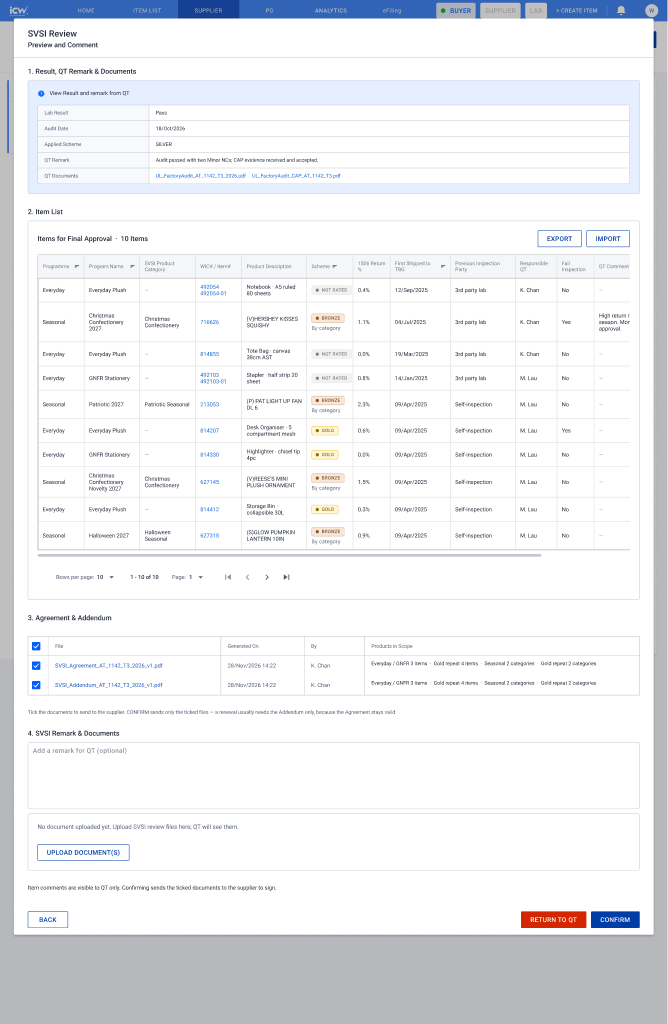
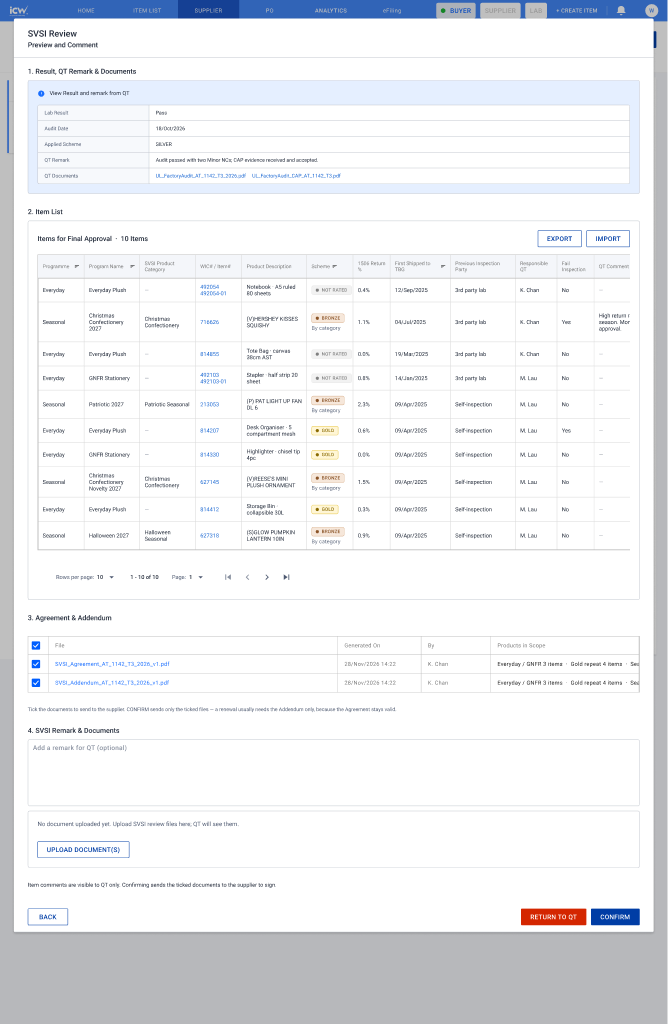
Ethical check gives a grade, not a score
Ethical Score / Score Date become Ethical Grade / Grade Date with four options
(Satisfactory, Needs Improvement, Satisfactory after Critical, Critical); adds
the grade dropdown frame and refreshes the two affected screenshots.

Changed region(s): [[0.0299, 0.7812, 0.9581, 0.9375], [0.0299, 0.625, 0.9281, 0.75], [0.3293, 0.625, 0.3892, 0.6562]]

diff --git a/index.html b/index.html
@@ -537,7 +537,7 @@ footer{margin-top:44px; padding-top:22px; border-top:1px solid var(--line); colo
       <div class="actors"><span class="chip buyer"><span class="dot"></span>QT decides</span><span class="chip team"><span class="dot"></span>Ethical team reviews</span></div>
     </div>
   </div>
-  <p class="intro">The ethical check is now optional. QT can skip it and send straight to the SVSI team; while the SVSI team is reviewing, QT can still <strong>send the task to the ethical team</strong>. If it goes to the ethical team first, they enter the score, score date, remark and documents, reconfirm, and the task moves on to the SVSI team.</p>
+  <p class="intro">The ethical check is now optional. QT can skip it and send straight to the SVSI team; while the SVSI team is reviewing, QT can still <strong>send the task to the ethical team</strong>. If it goes to the ethical team first, they pick the ethical grade (Satisfactory, Needs Improvement, Satisfactory after Critical or Critical), the grade date, remark and documents, reconfirm, and the task moves on to the SVSI team.</p>
   <div class="plays"><span class="pl">Play the prototype</span><a class="play team" href="https://www.figma.com/proto/aJIs39okLTRsQMwk96NWrC/SVSI?page-id=0%3A1&node-id=3028-11319&starting-point-node-id=3028%3A11319&scaling=scale-down-width&content-scaling=fixed" target="_blank" rel="noopener"><span class="tri" aria-hidden="true"></span><span class="pk">Ethical 1</span>Ethical review &amp; upload</a><a class="play buyer" href="https://www.figma.com/proto/aJIs39okLTRsQMwk96NWrC/SVSI?page-id=0%3A1&node-id=4976-22746&starting-point-node-id=4976%3A22746&scaling=scale-down-width&content-scaling=fixed" target="_blank" rel="noopener"><span class="tri" aria-hidden="true"></span><span class="pk">QT 9</span>Sent to SVSI → send to ethical later</a><a class="play team" href="https://www.figma.com/proto/aJIs39okLTRsQMwk96NWrC/SVSI?page-id=0%3A1&node-id=5179-41959&starting-point-node-id=5179%3A41959&scaling=scale-down-width&content-scaling=fixed" target="_blank" rel="noopener"><span class="tri" aria-hidden="true"></span><span class="pk">Ethical 2</span>Returned by SVSI → re-review → confirm</a></div>
   <div class="frames">
     <div class="frame">
@@ -561,7 +561,8 @@ footer{margin-top:44px; padding-top:22px; border-top:1px solid var(--line); colo
     <div class="mh">Ethical team screens</div>
     <ul>
       <li><a href="https://www.figma.com/design/aJIs39okLTRsQMwk96NWrC/SVSI?node-id=3028-11319" target="_blank" rel="noopener"><span class="nm">Ethical review, empty</span><span class="id">3028:11319</span></a></li>
-      <li><a href="https://www.figma.com/design/aJIs39okLTRsQMwk96NWrC/SVSI?node-id=4950-21039" target="_blank" rel="noopener"><span class="nm">Score date picker</span><span class="id">4950:21039</span></a></li>
+      <li><a href="https://www.figma.com/design/aJIs39okLTRsQMwk96NWrC/SVSI?node-id=9445-32448" target="_blank" rel="noopener"><span class="nm">Grade dropdown</span><span class="id">9445:32448</span></a></li>
+      <li><a href="https://www.figma.com/design/aJIs39okLTRsQMwk96NWrC/SVSI?node-id=4950-21039" target="_blank" rel="noopener"><span class="nm">Grade date picker</span><span class="id">4950:21039</span></a></li>
       <li><a href="https://www.figma.com/design/aJIs39okLTRsQMwk96NWrC/SVSI?node-id=2028-8302" target="_blank" rel="noopener"><span class="nm">Ethical review, filled</span><span class="id">2028:8302</span></a></li>
       <li><a href="https://www.figma.com/design/aJIs39okLTRsQMwk96NWrC/SVSI?node-id=3785-22004" target="_blank" rel="noopener"><span class="nm">Reconfirm before submitting</span><span class="id">3785:22004</span></a></li>
     </ul>

diff --git a/src/gen.py b/src/gen.py
@@ -107,11 +107,11 @@ S.append(step('s4','04','QT Review, Documents &amp; Preview',[('buyer','QT')],
  [('Steps and other decisions',[('Review lab result','1405:9212'),('Generate Agreement &amp; Addendum','4990:23021'),('Returned by SVSI, scroll table','5022:33099'),('Wide screen (1920), full table','7361:31251'),('Dev note, item tables scroll','7356:29010'),('Request revised report','1448:9588'),('Reject task','1448:9626')]),
   ('Export &amp; import',[('Item list exported (toast)','5453:22001'),('Import, choose file','5453:22717'),('Import, file ready','5453:23476'),('Import, too many items','5453:24225'),('Item list imported','5453:24976')])]))
 S.append(step('s5','05','Ethical Check (optional)',[('buyer','QT decides'),('team','Ethical team reviews')],
- 'The ethical check is now optional. QT can skip it and send straight to the SVSI team; while the SVSI team is reviewing, QT can still <strong>send the task to the ethical team</strong>. If it goes to the ethical team first, they enter the score, score date, remark and documents, reconfirm, and the task moves on to the SVSI team.',
+ 'The ethical check is now optional. QT can skip it and send straight to the SVSI team; while the SVSI team is reviewing, QT can still <strong>send the task to the ethical team</strong>. If it goes to the ethical team first, they pick the ethical grade (Satisfactory, Needs Improvement, Satisfactory after Critical or Critical), the grade date, remark and documents, reconfirm, and the task moves on to the SVSI team.',
  ['E1','Q9','E2'],
  [('s12_ethical.png','4976:22746','Sent straight to the SVSI team','Status Result Review (SVSI). QT still has Send to Ethical Team on the task.','Task sent to SVSI with send-to-ethical button'),
   ('s20_sent_ethical.png','4976:23042','Sent to the ethical team first','Status Result Review (Ethical) until the ethical team submits.','Task sent to the ethical team')],
- [('Ethical team screens',[('Ethical review, empty','3028:11319'),('Score date picker','4950:21039'),('Ethical review, filled','2028:8302'),('Reconfirm before submitting','3785:22004')])]))
+ [('Ethical team screens',[('Ethical review, empty','3028:11319'),('Grade dropdown','9445:32448'),('Grade date picker','4950:21039'),('Ethical review, filled','2028:8302'),('Reconfirm before submitting','3785:22004')])]))
 S.append(step('s6','06','SVSI Team Review',[('team','SVSI Team')],
  'The SVSI team approves <strong>once</strong>. They see everything QT prepared and can return the task to QT or to the ethical team, or reject it. When they confirm, a preview shows QT\'s remark, documents, item list, Agreement and Addendum. If something is off, they leave a <strong>comment on the item</strong> (visible to QT only) instead of sending it back; for long lists the comments can be exported to Excel and imported back. Before confirming they <strong>tick which documents go to the supplier</strong>: a renewal usually needs the Addendum only, because the Agreement stays valid. With nothing ticked, Confirm is disabled.',
  ['T1','Q10'],
